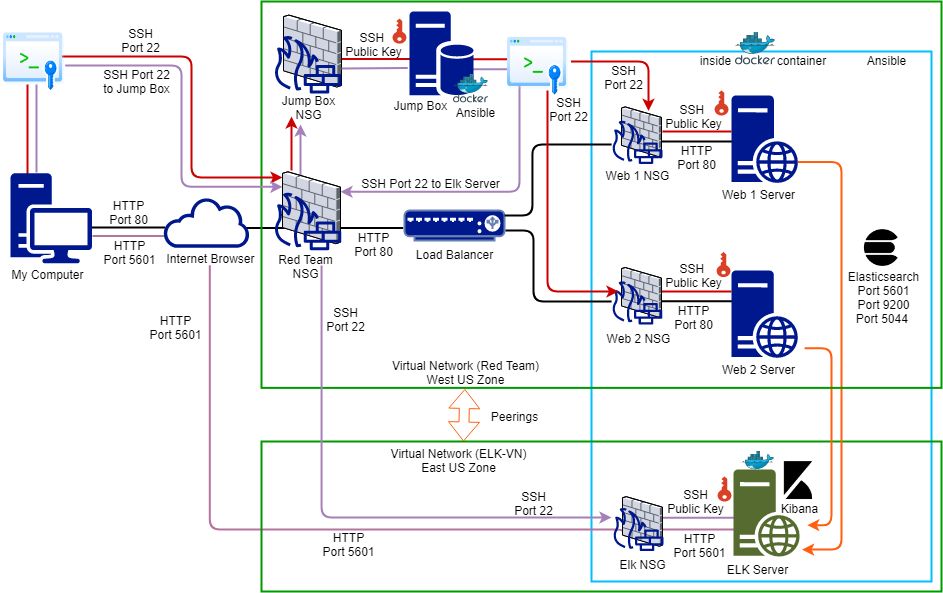
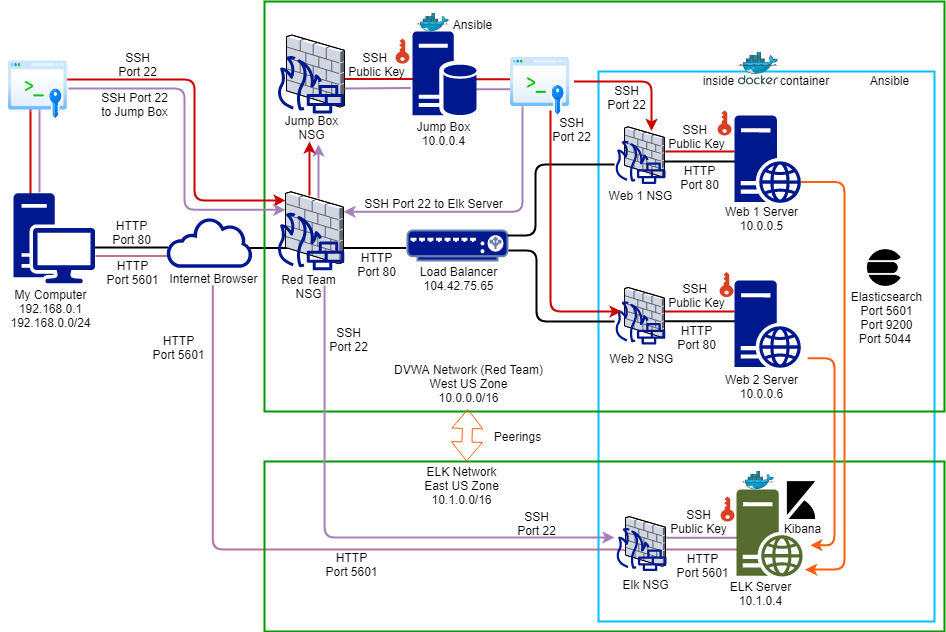
README v.23

Changed region(s): [[0.0, 0.0, 1.0, 1.0]]

diff --git a/README.md b/README.md
@@ -40,13 +40,13 @@ The configuration details of each machine may be found below.
 | Web 2 Server  | Process & deliver web pages          | 10.0.0.6            | Linux            |
 | ELK Server    | Log data & monitor network traffic   | 10.1.0.4            | Linux            |
 | Load Balancer | Distribute network traffic           | 104.42.75.65        | Linux            |
-| My Computer   | Access other machines as an end user | 192.168.2.1         | Windows          |
+| My Computer   | Access other machines as an end user | 192.168.0.1         | Windows          |
 
 ### Access Policies
 
 The machines on the internal network are not exposed to the public Internet. 
 
-Only the load balancer machine can accept connections from the Internet. Access to the load balancer is allowed from My Computer with an IP address of 192.168.2.1.
+Only the load balancer machine can accept connections from the Internet. Access to the load balancer is allowed from My Computer with an IP address of 192.168.0.1.
 
 Machines within the network can only be accessed by SSH with authenticated SSH keys.  And, in this current setting, the SSH access to ELK Server is allowed only from Jump Box which has an IP address of 10.0.0.4.
 
@@ -55,10 +55,10 @@ A summary of the access policies in place can be found in the table below.
 | Name         | Publicly Accessible| Allowed IP Addresses|  
 |--------------|--------------------|---------------------|
 | Jump Box     | No                 | 198.168.2.1:22|
-| Web 1 Server | No                 | 10.0.0.4:22, 104.42.75.65:80, (192.168.2.1:80 for testing purpose)|    	
-| Web 2 Server | No                 | 10.0.0.4:22, 104.42.75.65:80, (192.168.2.1:80 for testing purpose)|   	
-| Load Balancer| Yes		    | 192.168.2.1:80|
-| ELK Server   | Yes                | 10.0.0.4:22, 192.168.2.1:5601, 10.0.0.5:9200 (Elasticsearch), 10.0.0.5:5601 (Kibana), 10.0.0.6:9200 (Elasticsearch), 10.0.0.6:5601 (Kibana)|
+| Web 1 Server | No                 | 10.0.0.4:22, 104.42.75.65:80, (192.168.0.1:80 for testing purpose)|    	
+| Web 2 Server | No                 | 10.0.0.4:22, 104.42.75.65:80, (192.168.0.1:80 for testing purpose)|   	
+| Load Balancer| Yes		    | 192.168.0.1:80|
+| ELK Server   | Yes                | 10.0.0.4:22, 192.168.0.1:5601, 10.0.0.5:9200 (Elasticsearch), 10.0.0.5:5601 (Kibana), 10.0.0.6:9200 (Elasticsearch), 10.0.0.6:5601 (Kibana)|
 
 ### Elk Configuration
 
